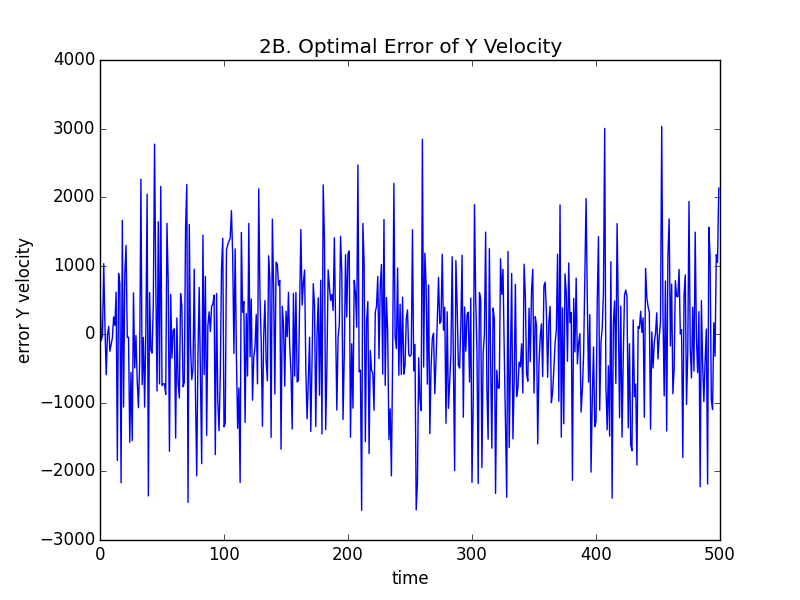
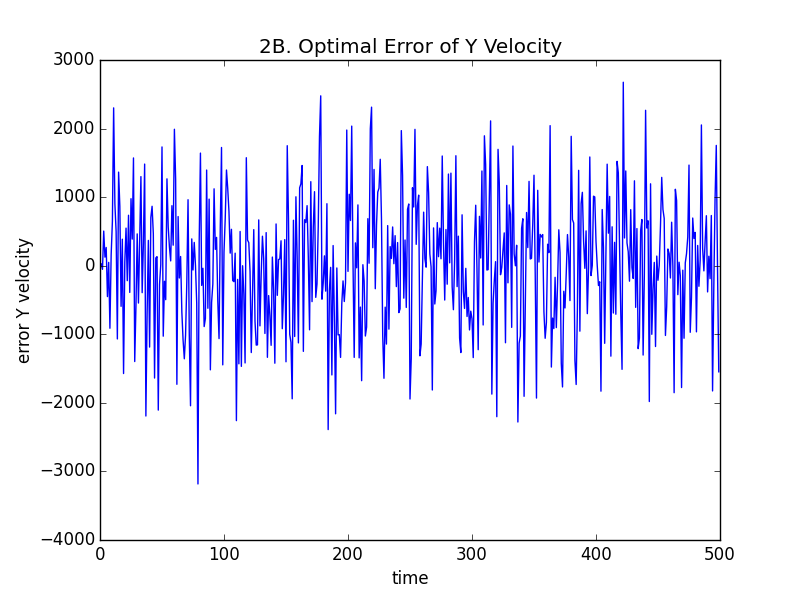
final version

diff --git a/trajectory_simulation.py b/trajectory_simulation.py
@@ -15,7 +15,7 @@ def trajectory_simulation(x, y, vx, vy, ax, ay, T):
 def trajectory_simulation_noise(x, y, vx, vy, ax, ay, T):
     x_t_noise = []
     for t in range(T):
-        x_t_noise.append([x+vx*t+0.5*ax*t**2, vx+ax*t, y+vy*t+0.5*ay*t**2, vy+ay*t] + np.random.normal(0, 1000**0.5, 4))
+        x_t_noise.append([x+vx*t+0.5*ax*t**2, vx+ax*t, y+vy*t+0.5*ay*t**2, vy+ay*t] + np.random.normal(0, 1000, 4))
     return x_t_noise
 
 # ===========================================
@@ -39,9 +39,15 @@ x_f_n = np.asmatrix(x_f_n)
 # 2. Plot the trajectories
 
 # with noise
-utils.line(x_f[:,0], x_f[:, 2], "x", "y", "ground-truth trajectory without noise")
+utils.line(x_f[:,0], x_f[:, 2], "x", "y", "Plot of ground-truth trajectory")
 
 # without noise
-utils.line(x_f_n[:,0], x_f_n[:, 2], "x", "y", "ground-truth trajectory with noise")
+fig = plt.figure()
+plt.title("Plot of ground-truth and measurement")
+plt.ylabel("y")
+plt.xlabel("x")
+plt.plot(x_f[:, 0], x_f[:, 2])
+plt.plot(x_f_n[:, 0], x_f_n[:, 2])
+fig.savefig(os.path.join(baseDir, 'Figures/Plot of ground-truth and measurement.png'))
 utils.line(np.arange(500), x_f_n[:,1], "time", "velocity", "velocity of x")
 utils.line(np.arange(500), x_f_n[:,3], "time", "velocity", "velocity of y")

diff --git a/2A.py b/2A.py
@@ -59,8 +59,8 @@ for t in range(500):
 # estimated trajectory, raw measurement, and true trajectory
 fig = plt.figure()
 plt.title("2A. Plot of estimated trajectory, raw measurement, and true trajectory")
-plt.ylabel("x")
-plt.xlabel("y")
+plt.ylabel("y")
+plt.xlabel("x")
 plt.plot(estimate[0, :].T, estimate[2, :].T)
 plt.plot(x_f[:, 0], x_f[:, 2])
 plt.plot(x_f_n[:, 0], x_f_n[:, 2])

diff --git a/2F.py b/2F.py
@@ -70,8 +70,8 @@ for t in range(500):
 
 fig = plt.figure()
 plt.title("2F.Plot of estimated trajectory, raw measurement, and true trajectory")
-plt.ylabel("x")
-plt.xlabel("y")
+plt.ylabel("y")
+plt.xlabel("x")
 plt.plot(estimate[0, :].T, estimate[2, :].T)
 plt.plot(estimate_random[0, :].T, estimate_random[2, :].T)
 plt.plot(x_f[:, 0], x_f[:, 2])

diff --git a/2B.py b/2B.py
@@ -56,8 +56,8 @@ for t in range(500):
 
 fig = plt.figure()
 plt.title("2B.Optimal Plot of estimated trajectory, raw measurement, and true trajectory")
-plt.ylabel("x")
-plt.xlabel("y")
+plt.ylabel("y")
+plt.xlabel("x")
 plt.plot(estimate[0, :].T, estimate[2, :].T)
 plt.plot(x_f[:, 0], x_f[:, 2])
 plt.plot(x_f_n[:, 0], x_f_n[:, 2])

diff --git a/2C.py b/2C.py
@@ -56,8 +56,8 @@ for t in range(500):
 
 fig = plt.figure()
 plt.title("2C.Optimal Plot of estimated trajectory, raw measurement, and true trajectory")
-plt.ylabel("x")
-plt.xlabel("y")
+plt.ylabel("y")
+plt.xlabel("x")
 plt.plot(estimate[0, :].T, estimate[2, :].T)
 plt.plot(x_f[:, 0], x_f[:, 2])
 plt.plot(x_f_n[:, 0], x_f_n[:, 2])

diff --git a/2D.py b/2D.py
@@ -56,8 +56,8 @@ for t in range(500):
 
 fig = plt.figure()
 plt.title("2D.Optimal Plot of estimated trajectory, raw measurement, and true trajectory")
-plt.ylabel("x")
-plt.xlabel("y")
+plt.ylabel("y")
+plt.xlabel("x")
 plt.plot(estimate[0, :].T, estimate[2, :].T)
 plt.plot(x_f[:, 0], x_f[:, 2])
 plt.plot(x_f_n[:, 0], x_f_n[:, 2])

diff --git a/2E.py b/2E.py
@@ -56,8 +56,8 @@ for t in range(500):
 
 fig = plt.figure()
 plt.title("2E.Optimal Plot of estimated trajectory, raw measurement, and true trajectory")
-plt.ylabel("x")
-plt.xlabel("y")
+plt.ylabel("y")
+plt.xlabel("x")
 plt.plot(estimate[0, :].T, estimate[2, :].T)
 plt.plot(x_f[:, 0], x_f[:, 2])
 plt.plot(x_f_n[:, 0], x_f_n[:, 2])
